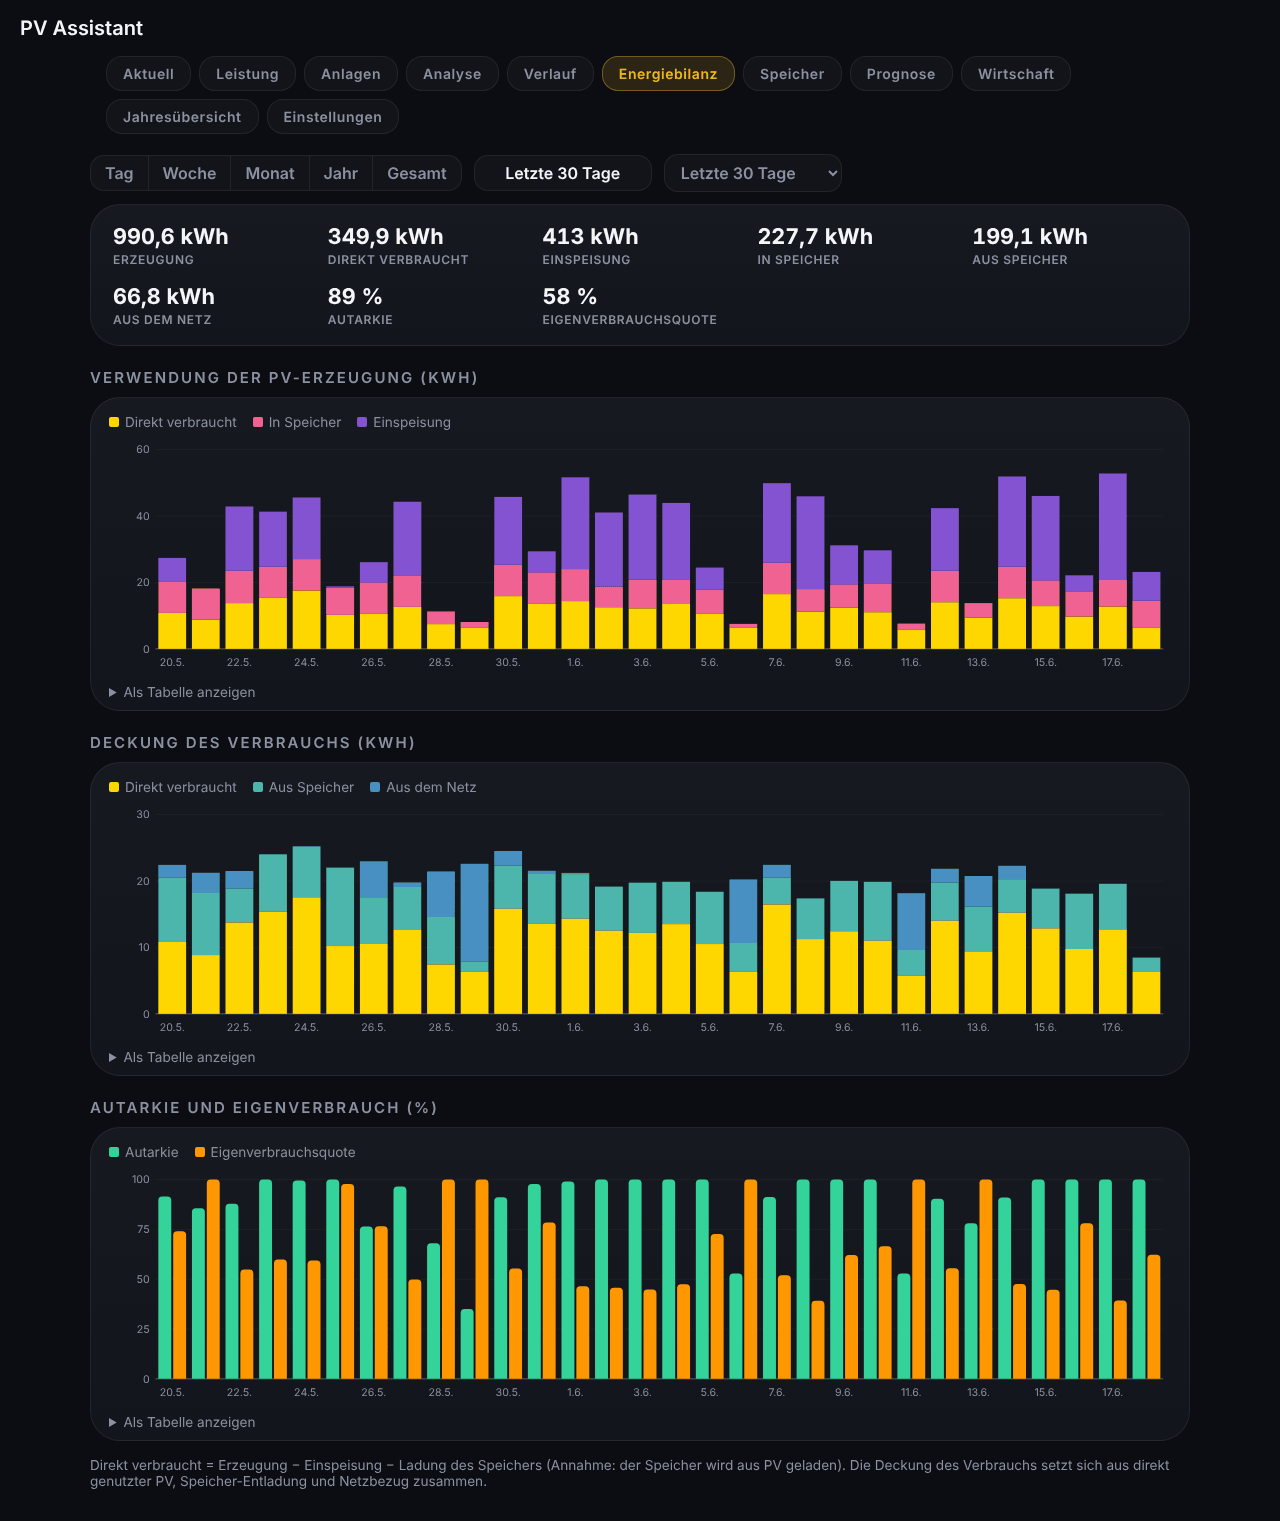
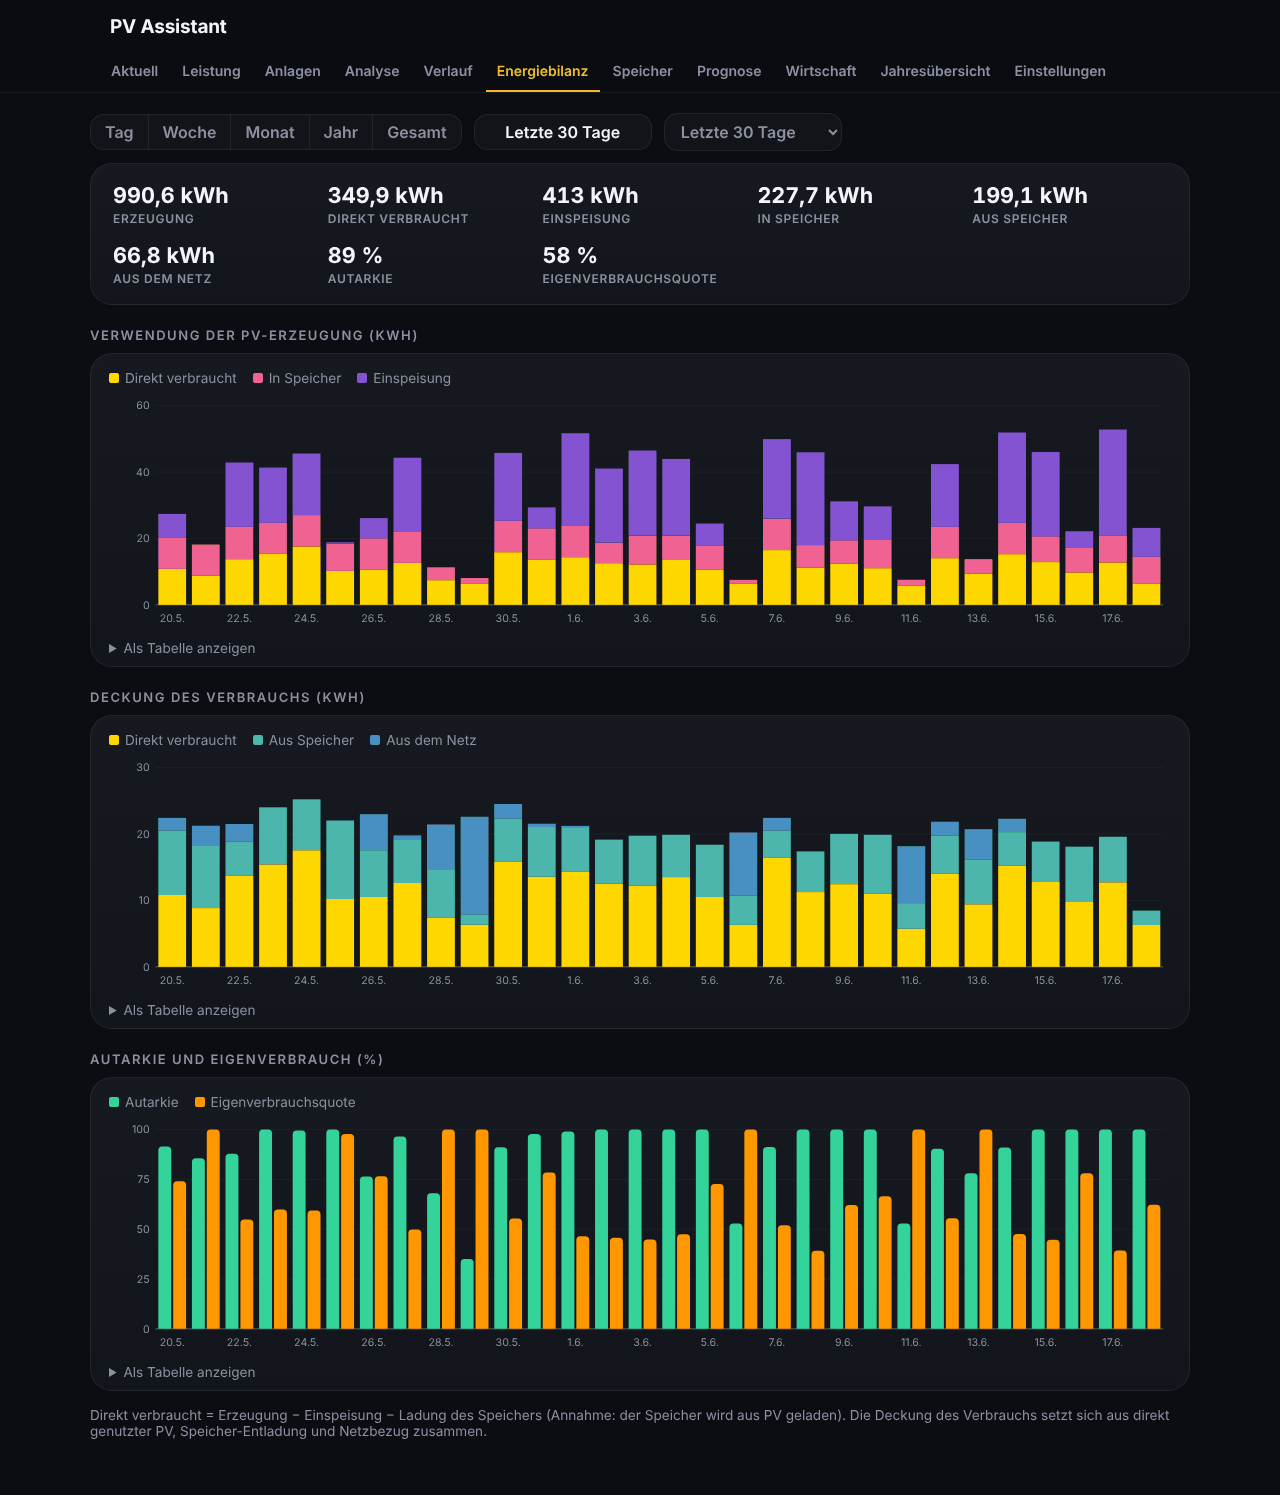
Redesign panel: sticky single-row tab bar, key figure strip on Now, compact cards
Claude-Session: https://claude.ai/code/session_01TaJYM5KB2UjSXtUd6GEyfY

diff --git a/custom_components/pv_assistant/frontend/pv-assistant-panel.js b/custom_components/pv_assistant/frontend/pv-assistant-panel.js
@@ -382,22 +382,24 @@ class PVAssistantPanel extends HTMLElement {
                   --g-text:#f3f5f9; --g-muted:#8b91a1; --g-dim:#5d6373; --g-accent:#f7b733;
                   --card-background-color:#14171e; --divider-color:rgba(255,255,255,.065);
                   --secondary-background-color:rgba(255,255,255,.05); --primary-text-color:#f3f5f9; --secondary-text-color:#8b91a1; }
-          header { display:flex; align-items:center; gap:8px; height:56px; padding:0 12px; background:var(--g-bg); color:var(--g-text);
-                   font-size:20px; font-weight:600; }
-          nav { display:flex; flex-wrap:wrap; gap:8px; background:var(--g-bg); padding:0 16px 4px; max-width:1100px; margin:0 auto; box-sizing:border-box; }
-          nav button { font:inherit; font-size:14px; font-weight:600; letter-spacing:.04em; color:var(--g-muted); background:var(--g-tile);
-                border:1px solid var(--g-tileb); border-radius:16px; padding:8px 16px; cursor:pointer; white-space:nowrap; }
+          .top { position:sticky; top:0; z-index:20; background:color-mix(in srgb, var(--g-bg) 86%, transparent);
+                 backdrop-filter:blur(14px); -webkit-backdrop-filter:blur(14px); border-bottom:1px solid var(--g-line); }
+          header { display:flex; align-items:center; gap:8px; height:52px; padding:0 12px; max-width:1100px; margin:0 auto; box-sizing:border-box;
+                   color:var(--g-text); font-size:19px; font-weight:700; letter-spacing:-.01em; }
+          nav { display:flex; gap:2px; padding:0 10px; max-width:1100px; margin:0 auto; box-sizing:border-box; overflow-x:auto; scrollbar-width:none; }
+          nav::-webkit-scrollbar { display:none; }
+          nav button { font:inherit; font-size:14px; font-weight:600; color:var(--g-muted); background:transparent; border:0;
+                border-bottom:2px solid transparent; border-radius:0; padding:10px 11px 11px; cursor:pointer; white-space:nowrap; flex:none; }
           nav button:hover { color:var(--g-text); }
-          nav button[aria-selected="true"] { color:var(--g-accent); background:color-mix(in srgb, var(--g-accent) 14%, transparent);
-                border-color:color-mix(in srgb, var(--g-accent) 38%, transparent); }
-          nav button:focus-visible, .filters button:focus-visible, .setbtn:focus-visible { outline:2px solid var(--g-accent); outline-offset:2px; }
+          nav button[aria-selected="true"] { color:var(--g-accent); border-bottom-color:var(--g-accent); }
+          nav button:focus-visible, .filters button:focus-visible, .setbtn:focus-visible { outline:2px solid var(--g-accent); outline-offset:-2px; }
           [role="tabpanel"][hidden] { display:none; }
-          main { padding:16px; max-width:1100px; margin:0 auto; }
-          h2 { font-weight:600; font-size:15px; letter-spacing:.14em; text-transform:uppercase; color:var(--g-muted); margin:28px 0 10px; }
-          .grid { display:grid; gap:16px; grid-template-columns:repeat(auto-fill,minmax(300px,1fr)); }
-          .card { background:var(--g-panel-bg); border:1px solid var(--g-line); border-radius:30px; padding:20px 22px;
+          main { padding:20px 16px 40px; max-width:1100px; margin:0 auto; }
+          h2 { font-weight:600; font-size:13px; letter-spacing:.12em; text-transform:uppercase; color:var(--g-muted); margin:26px 0 10px 4px; }
+          .grid { display:grid; gap:14px; grid-template-columns:repeat(auto-fill,minmax(300px,1fr)); align-items:start; }
+          .card { background:var(--g-panel-bg); border:1px solid var(--g-line); border-radius:22px; padding:16px 20px;
                   box-shadow:var(--ha-card-box-shadow,none); }
-          .card h3 { margin:0 0 10px; font-size:15px; font-weight:600; letter-spacing:.14em; text-transform:uppercase; color:var(--g-muted);
+          .card h3 { margin:0 0 8px; font-size:13px; font-weight:600; letter-spacing:.12em; text-transform:uppercase; color:var(--g-muted);
                      display:flex; justify-content:space-between; gap:8px; }
           .card h3 small { color:var(--g-text); font-weight:500; letter-spacing:0; text-transform:none; font-size:15px; }
           .row { display:flex; justify-content:space-between; gap:8px; padding:5px 0; border-top:1px solid var(--g-line); }
@@ -456,15 +458,15 @@ class PVAssistantPanel extends HTMLElement {
           .filters button[aria-pressed="true"] { border-color:color-mix(in srgb, var(--g-accent) 40%, transparent); color:var(--g-accent); background:color-mix(in srgb, var(--g-accent) 14%, transparent); }
           /* all key figures of a tab sit together in one card */
           .tiles { display:grid; grid-template-columns:repeat(auto-fill,minmax(170px,1fr)); gap:16px 20px; margin:0 0 16px; padding:18px 22px;
-                   background:var(--g-panel-bg); border:1px solid var(--g-line); border-radius:30px; }
+                   background:var(--g-panel-bg); border:1px solid var(--g-line); border-radius:22px; }
           .tiles:empty { display:none; }
           .tile { display:flex; flex-direction:column; gap:3px; min-width:0; }
           .tile b { display:block; font-size:1.35em; font-weight:700; font-variant-numeric:tabular-nums; }
           .tile span { color:var(--g-muted); font-size:.75em; letter-spacing:.06em; text-transform:uppercase; font-weight:600; }
-          .chart { background:var(--g-panel-bg); border:1px solid var(--g-line); border-radius:30px; padding:16px 18px 10px;
+          .chart { background:var(--g-panel-bg); border:1px solid var(--g-line); border-radius:22px; padding:16px 18px 10px;
                    margin-bottom:16px; transition:opacity .15s; }
           .chart.loading { opacity:.5; }
-          h3.ch { font-weight:600; font-size:15px; letter-spacing:.14em; text-transform:uppercase; color:var(--g-muted); margin:22px 0 10px; }
+          h3.ch { font-weight:600; font-size:13px; letter-spacing:.12em; text-transform:uppercase; color:var(--g-muted); margin:22px 0 10px; }
           .legend { display:flex; gap:16px; flex-wrap:wrap; margin:0 0 6px; font-size:.85em; color:var(--secondary-text-color); }
           .legend-item { display:inline-flex; align-items:center; gap:6px; }
           .key { display:inline-block; }
@@ -506,6 +508,12 @@ class PVAssistantPanel extends HTMLElement {
           .note.warn { color:var(--primary-text-color); border-left:3px solid var(--pva-neg); padding-left:8px; margin:8px 0 0; }
           .grid + .note { margin-top:16px; }
           /* energy flow */
+          .kpis { display:grid; grid-template-columns:repeat(auto-fit,minmax(150px,1fr)); gap:12px; margin:0 0 6px; }
+          .kpi { position:relative; overflow:hidden; background:var(--g-panel-bg); border:1px solid var(--g-line); border-radius:20px; padding:14px 16px 14px 20px; }
+          .kpi::before { content:""; position:absolute; left:0; top:12px; bottom:12px; width:4px; border-radius:0 4px 4px 0; background:var(--kc, var(--g-accent)); }
+          .kpi span { display:block; color:var(--g-muted); font-size:12px; letter-spacing:.1em; text-transform:uppercase; font-weight:600; }
+          .kpi b { display:block; font-size:1.7em; font-weight:700; letter-spacing:-.02em; font-variant-numeric:tabular-nums; margin-top:2px; }
+          .kpi small { color:var(--g-muted); font-size:.85em; }
           .flowcard { padding:8px 12px; }
           svg.flow { display:block; width:100%; max-width:640px; margin:0 auto; color:var(--g-text); }
           svg.flow .track { fill:none; stroke:currentColor; stroke-width:3; opacity:.12; }
@@ -522,8 +530,8 @@ class PVAssistantPanel extends HTMLElement {
           .gauge i { display:block; height:100%; border-radius:6px; background:var(--pva-prod); box-shadow:0 0 12px color-mix(in srgb, var(--pva-prod) 55%, transparent); }
           .pw-val { font-size:2.4em; font-weight:800; letter-spacing:-.02em; line-height:1.1; }
           .pw-sub { color:var(--secondary-text-color); font-size:.9em; display:flex; justify-content:space-between; gap:8px; }
-          .setcard { background:var(--g-panel-bg); border:1px solid var(--g-line); border-radius:30px; padding:20px 22px; margin-bottom:16px; }
-          .setcard h3 { margin:0 0 2px; font-size:15px; font-weight:600; letter-spacing:.14em; text-transform:uppercase; color:var(--g-muted); }
+          .setcard { background:var(--g-panel-bg); border:1px solid var(--g-line); border-radius:22px; padding:20px 22px; margin-bottom:16px; }
+          .setcard h3 { margin:0 0 2px; font-size:13px; font-weight:600; letter-spacing:.12em; text-transform:uppercase; color:var(--g-muted); }
           .setcard .eid { color:var(--secondary-text-color); font-size:.85em; margin-bottom:10px; word-break:break-all; }
           .setrow { display:grid; grid-template-columns:minmax(120px,200px) 1fr; gap:8px 12px; align-items:center; margin:6px 0; }
           .setrow label { color:var(--secondary-text-color); }
@@ -591,8 +599,8 @@ class PVAssistantPanel extends HTMLElement {
           @media (max-width:560px) { .strow { grid-template-columns:1fr; } }
           p.empty { color:var(--secondary-text-color); margin:16px 0; }
         </style>
-        <header><span id="menu"></span><span id="title"></span></header>
-        <nav id="tabs" role="tablist"></nav>
+        <div class="top"><header><span id="menu"></span><span id="title"></span></header>
+        <nav id="tabs" role="tablist"></nav></div>
         <main><div id="now" role="tabpanel"></div><div id="pwr" role="tabpanel"></div><div id="plt" role="tabpanel"></div><div id="ana" role="tabpanel"></div><div id="bal" role="tabpanel"></div><div id="sto" role="tabpanel"></div><div id="mon" role="tabpanel"></div><div id="fcs" role="tabpanel"></div><div id="hist" role="tabpanel"></div><div id="yearsec" role="tabpanel"></div><div id="setsec" role="tabpanel"></div></main>`;
       const menu = document.createElement("ha-menu-button");
       this._root.getElementById("menu").appendChild(menu);
@@ -714,7 +722,7 @@ class PVAssistantPanel extends HTMLElement {
     if (fc) html += `<h2>${esc(this._t("fcGroup"))}</h2><div class="grid">${fc}</div>`;
     if (!html) html = `<p class="muted">${esc(this._t("none"))}</p>`;
     const now = this._root.getElementById("now");
-    if (!now.querySelector("#nowcards")) now.innerHTML = '<div id="flow"></div><div id="nowcards"></div>';
+    if (!now.querySelector("#nowcards")) now.innerHTML = '<div class="kpis" id="kpis"></div><div id="flow"></div><div id="nowcards"></div>';
     if (html !== this._last) { this._last = html; now.querySelector("#nowcards").innerHTML = html; }
     this._renderFlow();
     this._renderPower();
@@ -789,6 +797,7 @@ class PVAssistantPanel extends HTMLElement {
       box.append(card);
     }
     const v = this._flowValues();
+    this._renderKpis(v);
     const fmt = (x) => (x >= 1000 ? `${(x / 1000).toLocaleString(this._hass.locale?.language || this._hass.language, { maximumFractionDigits: 2 })} kW` : `${Math.round(x)} W`);
     const direct = Math.max(0, Math.min(v.prod, v.prod - v.feed - v.inn));
     const toBat = Math.min(v.inn, Math.max(0, v.prod - v.feed));
@@ -808,6 +817,19 @@ class PVAssistantPanel extends HTMLElement {
     this._flow.bat.g.style.display = v.hasBat ? "" : "none";
     if (v.hasGrid) set("grid", fmt(Math.max(v.imp, v.feed)), v.feed > v.imp ? `↑ ${this._t("feed")}` : v.imp > 0 ? `↓ ${this._t("gridImp")}` : "");
     if (v.hasBat) set("bat", fmt(Math.max(v.out, v.inn)), [v.inn > v.out ? `↓ ${this._t("sin")}` : v.out > 0 ? `↑ ${this._t("sout")}` : "", v.soc != null ? `${Math.round(v.soc)} %` : ""].filter(Boolean).join(" · "));
+  }
+
+  _renderKpis(v) {
+    const box = this._root.getElementById("kpis");
+    if (!box) return;
+    const loc = this._hass.locale?.language || this._hass.language;
+    const fmt = (x) => (x >= 1000 ? `${(x / 1000).toLocaleString(loc, { maximumFractionDigits: 2 })} kW` : `${Math.round(x)} W`);
+    const k = [[this._t("flowSolar"), fmt(v.prod), "--pva-prod", ""], [this._t("flowHome"), fmt(v.house), "--pva-house", ""]];
+    if (v.hasGrid) k.push([this._t("flowGrid"), fmt(Math.max(v.imp, v.feed)), v.feed > v.imp ? "--pva-feed" : "--pva-grid", v.feed > v.imp ? `↑ ${this._t("feed")}` : v.imp > 0 ? `↓ ${this._t("gridImp")}` : ""]);
+    if (v.hasBat) k.push([this._t("flowBattery"), fmt(Math.max(v.out, v.inn)), v.inn > v.out ? "--pva-bin" : "--pva-bout", v.soc != null ? `${Math.round(v.soc)} %` : ""]);
+    if (v.house > 0 && v.hasGrid) k.push([this._t("autarky"), `${Math.round((1 - Math.min(v.imp, v.house) / v.house) * 100)} %`, "--pva-pos", ""]);
+    const html = k.map(([n, val, c, sub]) => `<div class="kpi" style="--kc:var(${c})"><span>${esc(n)}</span><b>${esc(val)}</b>${sub ? `<small>${esc(sub)}</small>` : ""}</div>`).join("");
+    if (html !== this._kpiHtml) { this._kpiHtml = html; box.innerHTML = html; }
   }
 
   // ---------------------------------------------------------------- history

diff --git a/wiki/Panel-Tabs.md b/wiki/Panel-Tabs.md
@@ -4,6 +4,8 @@
 
 All key figures of a tab are shown together in one card. Tabs without matching sensors are hidden.
 
+The top bar with the tabs stays visible while scrolling and is a single row (it scrolls sideways on narrow screens). **Now** starts with a strip of key figures: solar, home, grid, storage and autarky.
+
 **Range picker:** every tab with data you can select (Power, Plants, Analysis, History, Balance, Storage, Forecast, Economics) has the same compact picker: the unit **Day · Week · Month · Year · Total**, arrows to page through the periods, the date in the middle (click it for a small calendar: days with week numbers, months or years; the first month with data and today limit it) and a **quick ranges** list (Today, Yesterday, Last 7 / 30 / 90 days, Last 12 months). Click the active unit again to jump to the current period. Total covers everything recorded (the first start reads the long-term statistics once); the tabs that load hourly values (Plants, Analysis) load at most the last 5 years for Total and say so. In the Economics tab day, week, month and the last n days use daily values, year, 12 months and Total monthly values. The yearly overview has its own year selection.
 
 ### Now
@@ -100,6 +102,8 @@ See [[Settings]].
 ## Deutsch
 
 Alle Kennzahlen eines Tabs stehen gemeinsam in einer Karte. Tabs ohne passende Sensoren werden ausgeblendet.
+
+Die Kopfleiste mit den Tabs bleibt beim Scrollen sichtbar und ist einzeilig (auf schmalen Bildschirmen seitlich scrollbar). **Aktuell** beginnt mit einer Kennzahlen-Leiste: PV, Haus, Netz, Speicher und Autarkie.
 
 **Zeitraum-Wähler:** Jeder Tab mit auswählbaren Daten (Leistung, Anlagen, Analyse, Verlauf, Energiebilanz, Speicher, Prognose, Wirtschaft) hat denselben kompakten Wähler: die Einheit **Tag · Woche · Monat · Jahr · Gesamt**, Pfeile zum Blättern durch die Zeiträume, in der Mitte das Datum (ein Klick darauf öffnet einen kleinen Kalender: Tage mit Kalenderwochen, Monate oder Jahre; der erste Monat mit Daten und heute begrenzen ihn) und eine **Schnellwahl** (Heute, Gestern, Letzte 7 / 30 / 90 Tage, Letzte 12 Monate). Ein Klick auf die aktive Einheit springt zum aktuellen Zeitraum. Gesamt umfasst alles Aufgezeichnete (beim ersten Mal werden einmalig die Langzeitstatistiken gelesen); die Tabs, die Stundenwerte laden (Anlagen, Analyse), laden bei Gesamt höchstens die letzten 5 Jahre und weisen darauf hin. In der Wirtschaft nutzen Tag, Woche, Monat und die letzten n Tage Tageswerte, Jahr, 12 Monate und Gesamt Monatswerte. Die Jahresübersicht hat ihre eigene Jahresauswahl.
 
